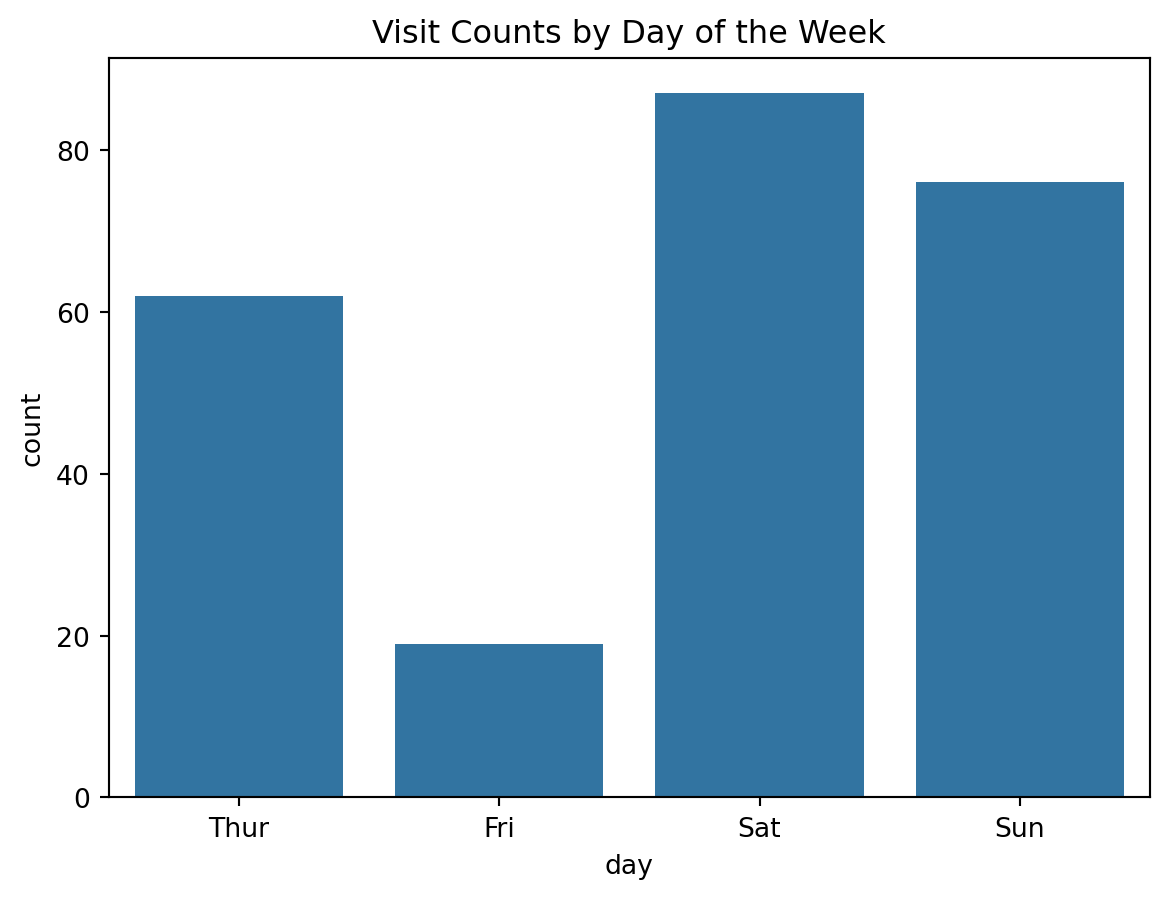
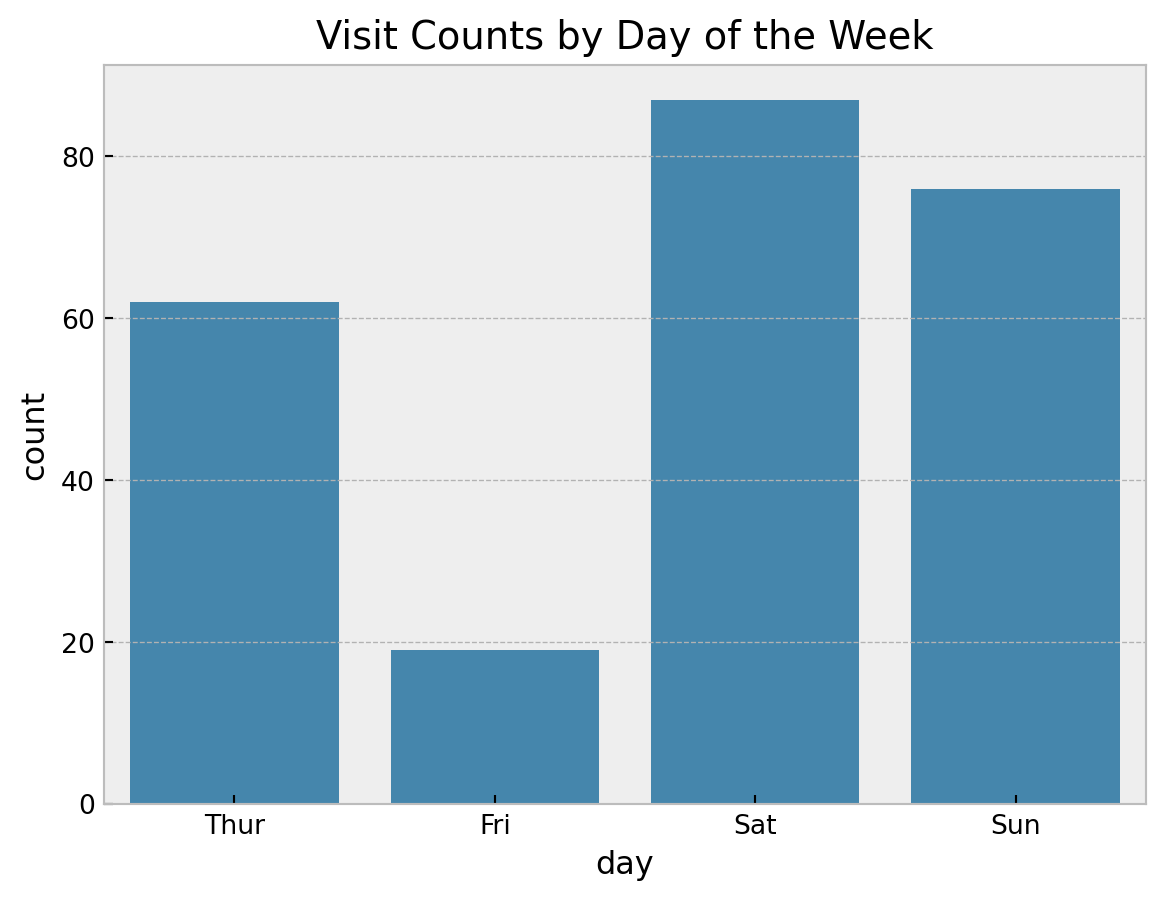
TipsDataset:Spending by gender and smoking status

diff --git a/docs/data_analytical_posts/tips_data/index.html b/docs/data_analytical_posts/tips_data/index.html
@@ -204,8 +204,8 @@ pre > code.sourceCode > span > a:first-child::before { text-decoration: underlin
 
 
 
-<p>This is a post on the tips dataset.</p>
-<div id="e89939a3" class="cell" data-execution_count="1">
+<p>This is a post on the tips dataset. This dataset is a record of</p>
+<div id="fed6d8d5" class="cell" data-execution_count="1">
 <div class="sourceCode cell-code" id="cb1"><pre class="sourceCode python code-with-copy"><code class="sourceCode python"><span id="cb1-1"><a href="#cb1-1" aria-hidden="true" tabindex="-1"></a><span class="im">import</span> pandas <span class="im">as</span> pd</span>
 <span id="cb1-2"><a href="#cb1-2" aria-hidden="true" tabindex="-1"></a><span class="im">import</span> numpy <span class="im">as</span> np</span>
 <span id="cb1-3"><a href="#cb1-3" aria-hidden="true" tabindex="-1"></a><span class="im">import</span> matplotlib.pyplot <span class="im">as</span> plt</span>
@@ -213,7 +213,7 @@ pre > code.sourceCode > span > a:first-child::before { text-decoration: underlin
 <span id="cb1-5"><a href="#cb1-5" aria-hidden="true" tabindex="-1"></a></span>
 <span id="cb1-6"><a href="#cb1-6" aria-hidden="true" tabindex="-1"></a>df_tips <span class="op">=</span> sns.load_dataset(<span class="st">"tips"</span>)</span>
 <span id="cb1-7"><a href="#cb1-7" aria-hidden="true" tabindex="-1"></a>df_tips.head()</span></code><button title="Copy to Clipboard" class="code-copy-button"><i class="bi"></i></button></pre></div>
-<div class="cell-output cell-output-display" data-execution_count="21">
+<div class="cell-output cell-output-display" data-execution_count="16">
 <div>
 
 
@@ -288,38 +288,54 @@ pre > code.sourceCode > span > a:first-child::before { text-decoration: underlin
 </div>
 </div>
 <p>Let us plot visit counts by days of the week.</p>
-<div id="f777b9dc" class="cell" data-execution_count="2">
-<div class="sourceCode cell-code" id="cb2"><pre class="sourceCode python code-with-copy"><code class="sourceCode python"><span id="cb2-1"><a href="#cb2-1" aria-hidden="true" tabindex="-1"></a>plt.title(<span class="st">"Visit Counts by Day of the Week"</span>)</span>
-<span id="cb2-2"><a href="#cb2-2" aria-hidden="true" tabindex="-1"></a>sns.countplot(x<span class="op">=</span><span class="st">"day"</span>, data<span class="op">=</span>df_tips)</span></code><button title="Copy to Clipboard" class="code-copy-button"><i class="bi"></i></button></pre></div>
+<div id="270e50fd" class="cell" data-execution_count="2">
+<div class="sourceCode cell-code" id="cb2"><pre class="sourceCode python code-with-copy"><code class="sourceCode python"><span id="cb2-1"><a href="#cb2-1" aria-hidden="true" tabindex="-1"></a>plt.style.use(<span class="st">"bmh"</span>)</span>
+<span id="cb2-2"><a href="#cb2-2" aria-hidden="true" tabindex="-1"></a></span>
+<span id="cb2-3"><a href="#cb2-3" aria-hidden="true" tabindex="-1"></a>plt.title(<span class="st">"Visit Counts by Day of the Week"</span>)</span>
+<span id="cb2-4"><a href="#cb2-4" aria-hidden="true" tabindex="-1"></a>sns.countplot(x<span class="op">=</span><span class="st">"day"</span>, data<span class="op">=</span>df_tips)</span></code><button title="Copy to Clipboard" class="code-copy-button"><i class="bi"></i></button></pre></div>
 <div class="cell-output cell-output-display">
 <div>
 <figure class="figure">
-<p><img src="index_files/figure-html/cell-3-output-1.png" width="585" height="449" class="figure-img"></p>
+<p><img src="index_files/figure-html/cell-3-output-1.png" width="583" height="450" class="figure-img"></p>
 </figure>
 </div>
 </div>
 </div>
 <p>We can also examine the distribution of visit counts by day of the week and sex.</p>
-<div id="749a22cd" class="cell" data-execution_count="3">
+<div id="eed67de4" class="cell" data-execution_count="3">
 <div class="sourceCode cell-code" id="cb3"><pre class="sourceCode python code-with-copy"><code class="sourceCode python"><span id="cb3-1"><a href="#cb3-1" aria-hidden="true" tabindex="-1"></a>plt.title(<span class="st">"Visit Counts by Day of the Week"</span>)</span>
 <span id="cb3-2"><a href="#cb3-2" aria-hidden="true" tabindex="-1"></a>sns.countplot(x<span class="op">=</span><span class="st">"day"</span>, hue<span class="op">=</span><span class="st">"sex"</span>, data<span class="op">=</span>df_tips)<span class="op">;</span></span></code><button title="Copy to Clipboard" class="code-copy-button"><i class="bi"></i></button></pre></div>
 <div class="cell-output cell-output-display">
 <div>
 <figure class="figure">
-<p><img src="index_files/figure-html/cell-4-output-1.png" width="585" height="449" class="figure-img"></p>
+<p><img src="index_files/figure-html/cell-4-output-1.png" width="583" height="450" class="figure-img"></p>
 </figure>
 </div>
 </div>
 </div>
 <section id="distribution-of-spending-by-gender" class="level2">
 <h2 class="anchored" data-anchor-id="distribution-of-spending-by-gender">Distribution of spending by gender</h2>
-<div id="a84404f0" class="cell" data-execution_count="4">
+<div id="66dafc8f" class="cell" data-execution_count="4">
 <div class="sourceCode cell-code" id="cb4"><pre class="sourceCode python code-with-copy"><code class="sourceCode python"><span id="cb4-1"><a href="#cb4-1" aria-hidden="true" tabindex="-1"></a>plt.title(<span class="st">"Distribution of Spending by Gender"</span>)</span>
-<span id="cb4-2"><a href="#cb4-2" aria-hidden="true" tabindex="-1"></a>sns.kdeplot(x<span class="op">=</span><span class="st">"total_bill"</span>, hue<span class="op">=</span><span class="st">"sex"</span>, data<span class="op">=</span>df_tips, fill<span class="op">=</span><span class="va">True</span>)<span class="op">;</span></span></code><button title="Copy to Clipboard" class="code-copy-button"><i class="bi"></i></button></pre></div>
+<span id="cb4-2"><a href="#cb4-2" aria-hidden="true" tabindex="-1"></a>sns.histplot(x<span class="op">=</span><span class="st">"total_bill"</span>, hue<span class="op">=</span><span class="st">"sex"</span>, data<span class="op">=</span>df_tips, fill<span class="op">=</span><span class="va">True</span>)<span class="op">;</span></span></code><button title="Copy to Clipboard" class="code-copy-button"><i class="bi"></i></button></pre></div>
 <div class="cell-output cell-output-display">
 <div>
 <figure class="figure">
-<p><img src="index_files/figure-html/cell-5-output-1.png" width="606" height="449" class="figure-img"></p>
+<p><img src="index_files/figure-html/cell-5-output-1.png" width="583" height="451" class="figure-img"></p>
+</figure>
+</div>
+</div>
+</div>
+</section>
+<section id="distribution-of-spending-by-smoking-status" class="level2">
+<h2 class="anchored" data-anchor-id="distribution-of-spending-by-smoking-status">Distribution of spending by smoking status</h2>
+<div id="de02a780" class="cell" data-execution_count="5">
+<div class="sourceCode cell-code" id="cb5"><pre class="sourceCode python code-with-copy"><code class="sourceCode python"><span id="cb5-1"><a href="#cb5-1" aria-hidden="true" tabindex="-1"></a>plt.title(<span class="st">"Distribution of Spending by Smoking Status"</span>)</span>
+<span id="cb5-2"><a href="#cb5-2" aria-hidden="true" tabindex="-1"></a>sns.histplot(x<span class="op">=</span><span class="st">"total_bill"</span>, hue<span class="op">=</span><span class="st">"smoker"</span>, data<span class="op">=</span>df_tips, fill<span class="op">=</span><span class="va">True</span>)<span class="op">;</span></span></code><button title="Copy to Clipboard" class="code-copy-button"><i class="bi"></i></button></pre></div>
+<div class="cell-output cell-output-display">
+<div>
+<figure class="figure">
+<p><img src="index_files/figure-html/cell-6-output-1.png" width="583" height="451" class="figure-img"></p>
 </figure>
 </div>
 </div>

diff --git a/docs/data_analytical_posts/penguins_dataset/index.html b/docs/data_analytical_posts/penguins_dataset/index.html
@@ -209,14 +209,14 @@ pre > code.sourceCode > span > a:first-child::before { text-decoration: underlin
 <section id="penguins-dataset" class="level1">
 <h1>Penguins Dataset</h1>
 <p>Let us import some libraries and load the penguins dataset.</p>
-<div id="23895ece" class="cell" data-execution_count="1">
+<div id="933fcdee" class="cell" data-execution_count="1">
 <div class="sourceCode cell-code" id="cb1"><pre class="sourceCode python code-with-copy"><code class="sourceCode python"><span id="cb1-1"><a href="#cb1-1" aria-hidden="true" tabindex="-1"></a><span class="im">import</span> pandas <span class="im">as</span> pd</span>
 <span id="cb1-2"><a href="#cb1-2" aria-hidden="true" tabindex="-1"></a><span class="im">import</span> matplotlib.pyplot <span class="im">as</span> plt</span>
 <span id="cb1-3"><a href="#cb1-3" aria-hidden="true" tabindex="-1"></a><span class="im">import</span> seaborn <span class="im">as</span> sns</span>
 <span id="cb1-4"><a href="#cb1-4" aria-hidden="true" tabindex="-1"></a></span>
 <span id="cb1-5"><a href="#cb1-5" aria-hidden="true" tabindex="-1"></a>df_penguins <span class="op">=</span> sns.load_dataset(<span class="st">"penguins"</span>)</span>
 <span id="cb1-6"><a href="#cb1-6" aria-hidden="true" tabindex="-1"></a>df_penguins.head()</span></code><button title="Copy to Clipboard" class="code-copy-button"><i class="bi"></i></button></pre></div>
-<div class="cell-output cell-output-display" data-execution_count="11">
+<div class="cell-output cell-output-display" data-execution_count="1">
 <div>
 
 
@@ -291,7 +291,7 @@ pre > code.sourceCode > span > a:first-child::before { text-decoration: underlin
 </div>
 </div>
 <p>Let us look at the distribution of the body mass of the penguins by species.</p>
-<div id="daeef4c8" class="cell" data-execution_count="2">
+<div id="687794ac" class="cell" data-execution_count="2">
 <div class="sourceCode cell-code" id="cb2"><pre class="sourceCode python code-with-copy"><code class="sourceCode python"><span id="cb2-1"><a href="#cb2-1" aria-hidden="true" tabindex="-1"></a>plt.title(<span class="st">"Distribution of Body Mass of Penguins"</span>)</span>
 <span id="cb2-2"><a href="#cb2-2" aria-hidden="true" tabindex="-1"></a>sns.kdeplot(x<span class="op">=</span><span class="st">"body_mass_g"</span>, hue<span class="op">=</span><span class="st">"species"</span>, data<span class="op">=</span>df_penguins, fill<span class="op">=</span><span class="va">True</span>)<span class="op">;</span></span></code><button title="Copy to Clipboard" class="code-copy-button"><i class="bi"></i></button></pre></div>
 <div class="cell-output cell-output-display">
@@ -303,7 +303,7 @@ pre > code.sourceCode > span > a:first-child::before { text-decoration: underlin
 </div>
 </div>
 <p>Notice the distribution of the Gentoo penguins. It looks bimodal. One possible reason is a difference between male and females of that species. Let us look at the distribution of the body mass of that species by species and sex.</p>
-<div id="40f9e248" class="cell" data-execution_count="3">
+<div id="40fcb030" class="cell" data-execution_count="3">
 <div class="sourceCode cell-code" id="cb3"><pre class="sourceCode python code-with-copy"><code class="sourceCode python"><span id="cb3-1"><a href="#cb3-1" aria-hidden="true" tabindex="-1"></a>df_gentoo <span class="op">=</span> df_penguins[df_penguins[<span class="st">"species"</span>] <span class="op">==</span> <span class="st">"Gentoo"</span>]</span>
 <span id="cb3-2"><a href="#cb3-2" aria-hidden="true" tabindex="-1"></a></span>
 <span id="cb3-3"><a href="#cb3-3" aria-hidden="true" tabindex="-1"></a>plt.title(<span class="st">"Distribution of Body Mass of Gentoo Penguins"</span>)</span>
@@ -317,7 +317,7 @@ pre > code.sourceCode > span > a:first-child::before { text-decoration: underlin
 </div>
 </div>
 <p>Indeed, the separation is by sex. How about the other species?</p>
-<div id="44c5df2a" class="cell" data-execution_count="4">
+<div id="32f0ccd5" class="cell" data-execution_count="4">
 <div class="sourceCode cell-code" id="cb4"><pre class="sourceCode python code-with-copy"><code class="sourceCode python"><span id="cb4-1"><a href="#cb4-1" aria-hidden="true" tabindex="-1"></a>df_chinstrap <span class="op">=</span> df_penguins[df_penguins[<span class="st">"species"</span>] <span class="op">==</span> <span class="st">"Chinstrap"</span>]</span>
 <span id="cb4-2"><a href="#cb4-2" aria-hidden="true" tabindex="-1"></a></span>
 <span id="cb4-3"><a href="#cb4-3" aria-hidden="true" tabindex="-1"></a>plt.title(<span class="st">"Distribution of Body Mass of Chinstrap Penguins"</span>)</span>
@@ -331,7 +331,7 @@ pre > code.sourceCode > span > a:first-child::before { text-decoration: underlin
 </div>
 </div>
 <p>The Chinstrap penguins also seem bimodal. Now let us try the Adelie penguins.</p>
-<div id="2eaf3f98" class="cell" data-execution_count="5">
+<div id="ade19d8c" class="cell" data-execution_count="5">
 <div class="sourceCode cell-code" id="cb5"><pre class="sourceCode python code-with-copy"><code class="sourceCode python"><span id="cb5-1"><a href="#cb5-1" aria-hidden="true" tabindex="-1"></a>df_adelie <span class="op">=</span> df_penguins[df_penguins[<span class="st">"species"</span>] <span class="op">==</span> <span class="st">"Adelie"</span>]</span>
 <span id="cb5-2"><a href="#cb5-2" aria-hidden="true" tabindex="-1"></a></span>
 <span id="cb5-3"><a href="#cb5-3" aria-hidden="true" tabindex="-1"></a>plt.title(<span class="st">"Distribution of Body Mass of Adelie Penguins"</span>)</span>

diff --git a/docs/data_analysis.html b/docs/data_analysis.html
@@ -218,7 +218,7 @@ window.Quarto = {
 
 <div class="quarto-listing quarto-listing-container-default" id="listing-listing">
 <div class="list quarto-listing-default">
-<div class="quarto-post image-right" data-index="0" data-categories="news,code,analysis" data-listing-date-sort="1739232000000" data-listing-file-modified-sort="1739352110411" data-listing-date-modified-sort="NaN" data-listing-reading-time-sort="1" data-listing-word-count-sort="143">
+<div class="quarto-post image-right" data-index="0" data-categories="news,code,analysis" data-listing-date-sort="1739232000000" data-listing-file-modified-sort="1741706633098" data-listing-date-modified-sort="NaN" data-listing-reading-time-sort="1" data-listing-word-count-sort="143">
 <div class="thumbnail">
 <p><a href="./data_analytical_posts/penguins_dataset/index.html" class="no-external"></a></p><a href="./data_analytical_posts/penguins_dataset/index.html" class="no-external">
 <p><img loading="lazy" src="./data_analytical_posts/penguins_dataset/gemini_generated_image.jpeg" class="thumbnail-image"></p>
@@ -257,7 +257,7 @@ Musie Beyene PhD.
 </a>
 </div>
 </div>
-<div class="quarto-post image-right" data-index="1" data-categories="analysis" data-listing-date-sort="1731542400000" data-listing-file-modified-sort="1739314966827" data-listing-date-modified-sort="NaN" data-listing-reading-time-sort="1" data-listing-word-count-sort="68">
+<div class="quarto-post image-right" data-index="1" data-categories="analysis" data-listing-date-sort="1731542400000" data-listing-file-modified-sort="1741709570295" data-listing-date-modified-sort="NaN" data-listing-reading-time-sort="1" data-listing-word-count-sort="89">
 <div class="thumbnail">
 <p><a href="./data_analytical_posts/tips_data/index.html" class="no-external"></a></p><a href="./data_analytical_posts/tips_data/index.html" class="no-external">
 <p><img loading="lazy" src="./data_analytical_posts/tips_data/image.jpg" class="thumbnail-image"></p>
@@ -276,7 +276,7 @@ analysis
 </div>
 </div>
 <div class="listing-description">
-<a href="./data_analytical_posts/tips_data/index.html" class="no-external">This is a post on the tips dataset.</a>
+<a href="./data_analytical_posts/tips_data/index.html" class="no-external">This is a post on the tips dataset. This dataset is a record of</a>
 </div>
 </div>
 <div class="metadata">
